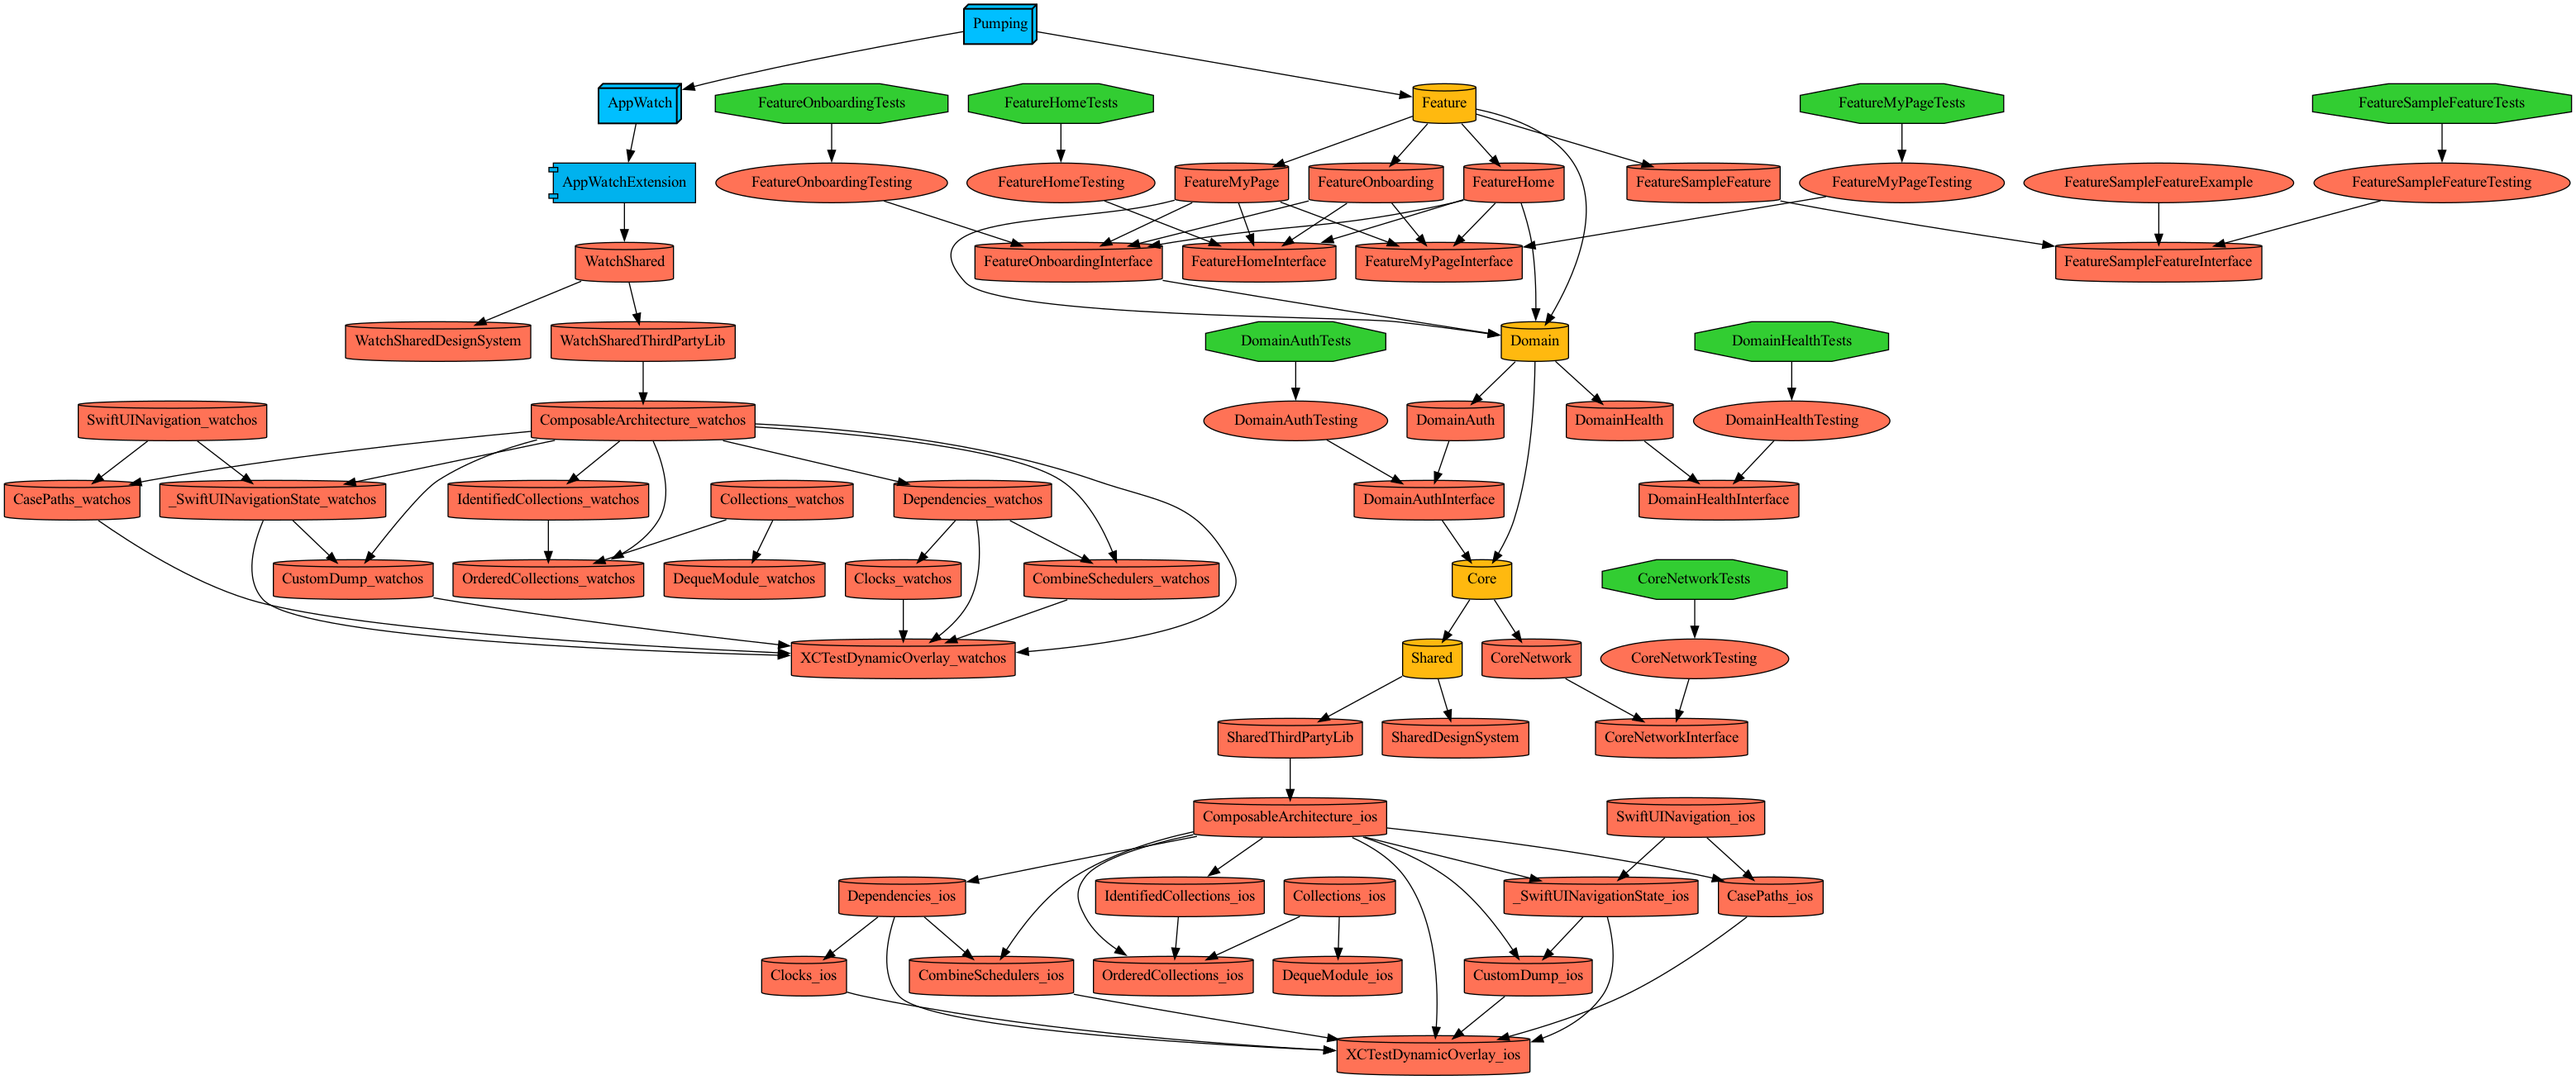
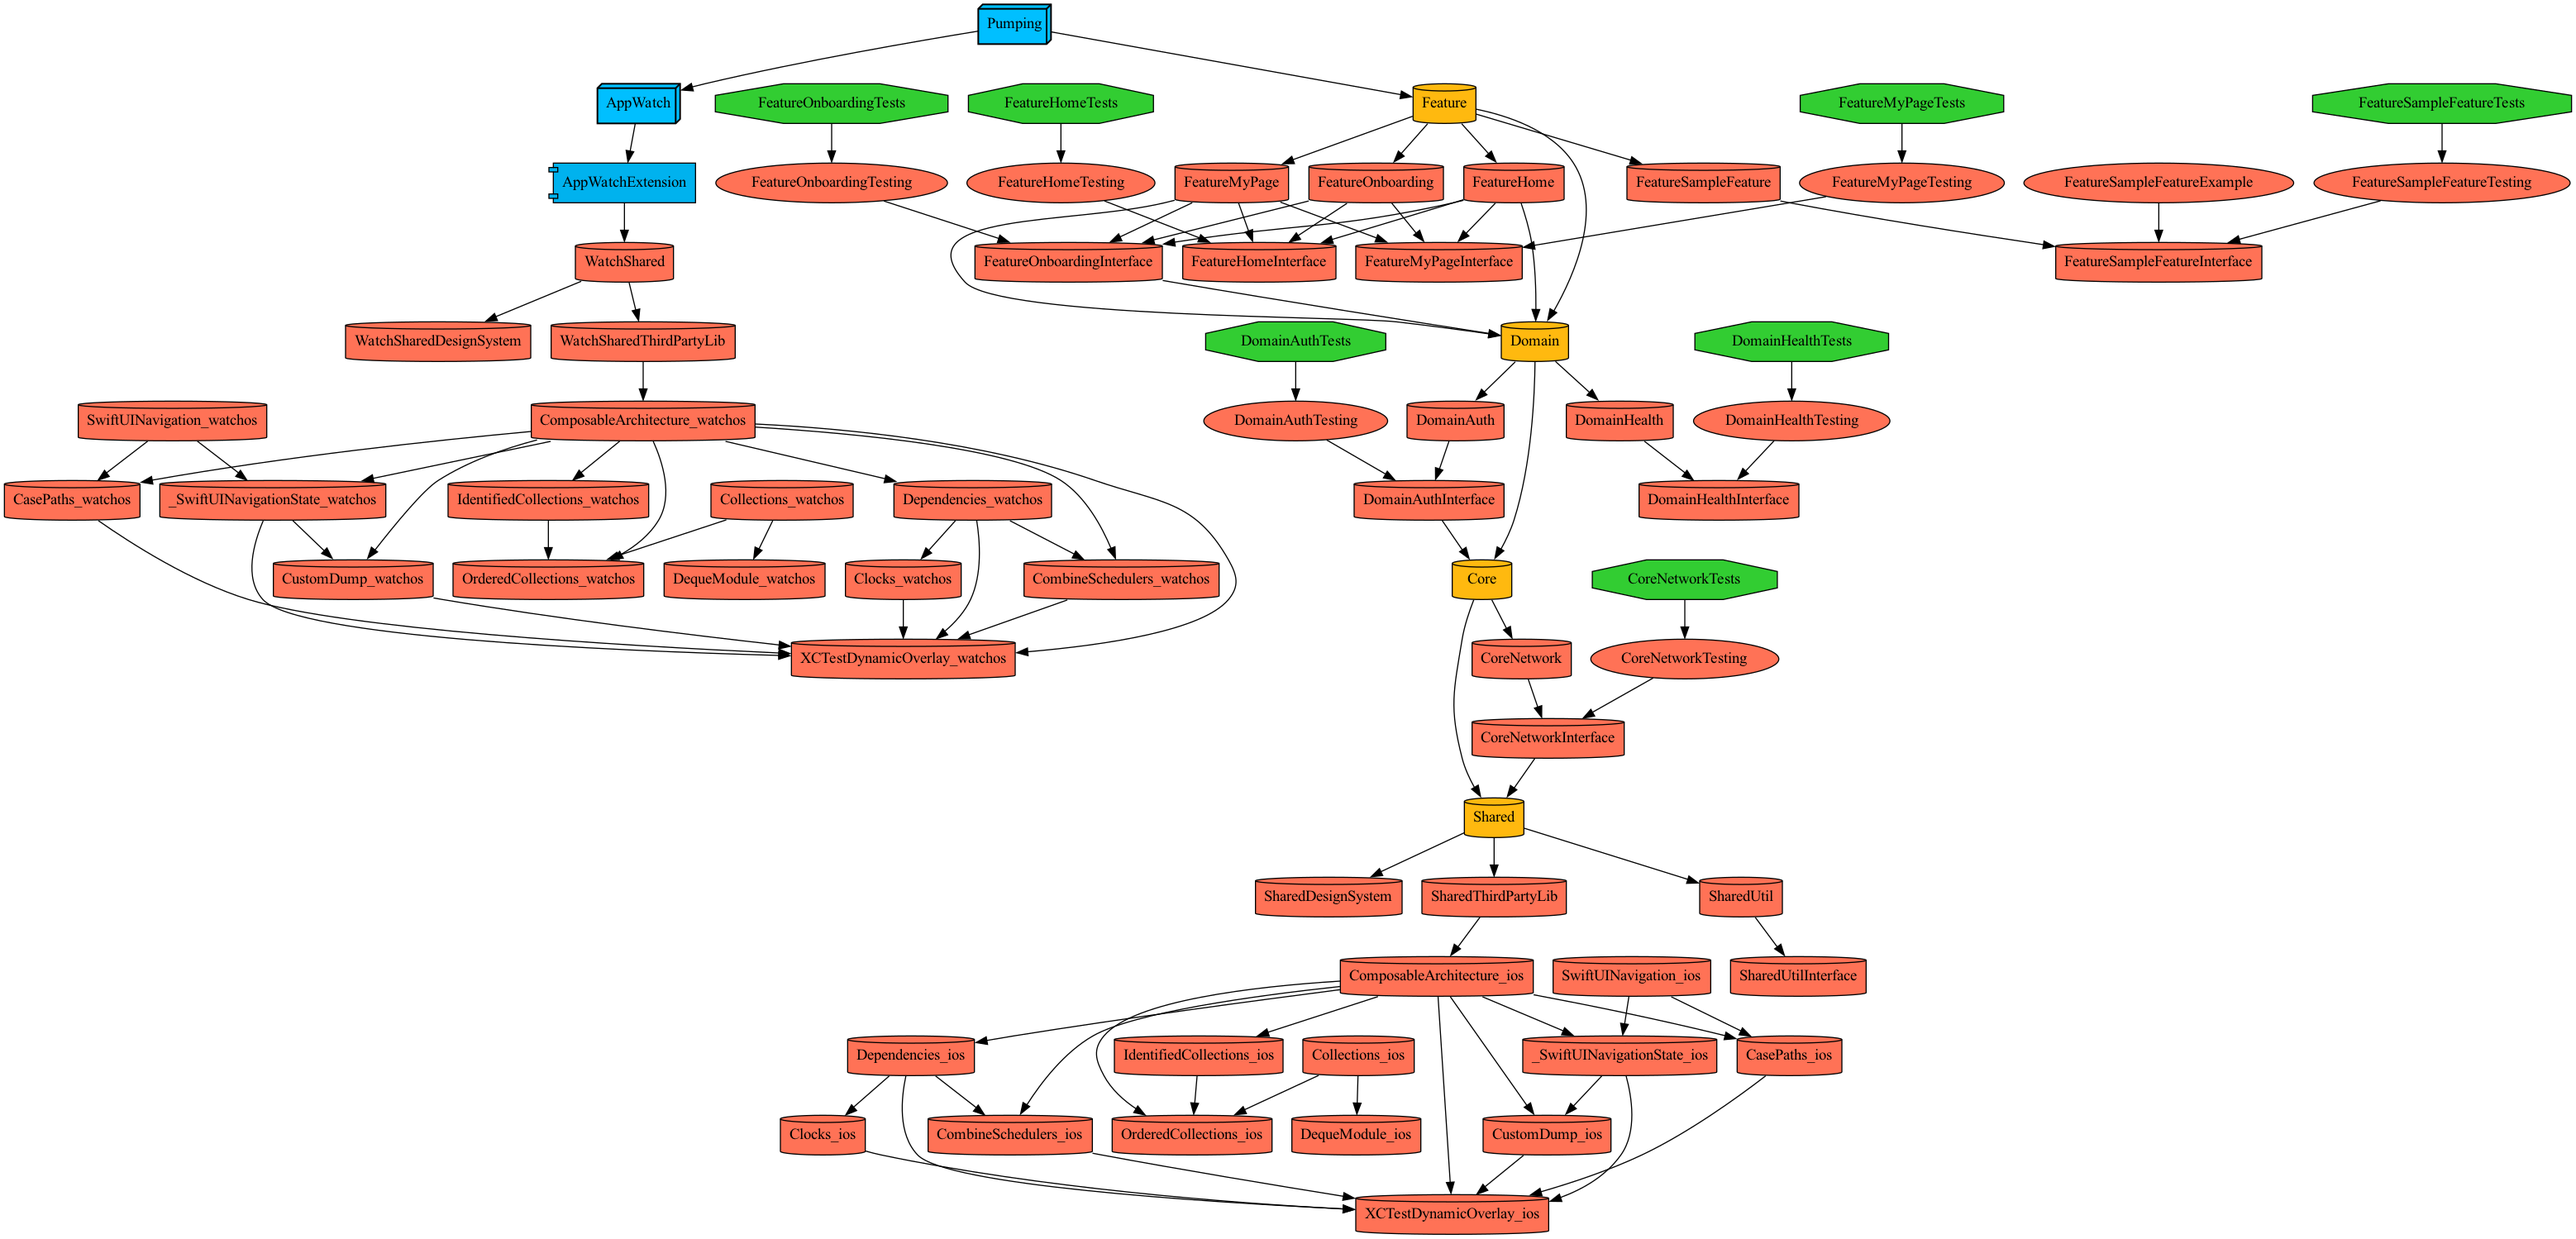
feat: Shared - Util Module 추가, PR 리뷰 수정, Shared에 Interface 추가

Changed region(s): [[0.0, 0.0, 1.0, 1.0]]

diff --git a/Projects/Core/Network/Sources/EndPoint/Requestable.swift b/Projects/Core/Network/Sources/EndPoint/Requestable.swift
@@ -7,18 +7,15 @@
 
 import Foundation
 import CoreNetworkInterface
+import SharedUtil
 
 extension Requestable {
-    private func makeURLComponents() throws -> URLComponents {
+    private func makeURLComponents() throws -> URLComponents? {
         guard let baseURL = Bundle.main.infoDictionary?["BASE_URL"] as? String else {
             throw NetworkError.urlRequestError(.makeURLError)
         }
         
-        guard let urlComponents = URLComponents(string: baseURL + path) else {
-            throw NetworkError.urlRequestError(.urlComponentError)
-        }
-        
-        return urlComponents
+        return URLComponents(string: baseURL + path)
     }
     
     private func getQueryParameters() throws -> [URLQueryItem]? {
@@ -52,7 +49,7 @@ extension Requestable {
         guard let bodyDictionary = try? bodyParameters.toDictionary() else {
             throw NetworkError.urlRequestError(.bodyEncodingError)
         }
-                
+        
         guard let encodedBody = try? JSONSerialization.data(withJSONObject: bodyDictionary) else {
             throw NetworkError.urlRequestError(.bodyEncodingError)
         }
@@ -62,7 +59,9 @@ extension Requestable {
     
     public func makeURLRequest() throws -> URLRequest {
         
-        var urlComponent = try makeURLComponents()
+        guard var urlComponent = try makeURLComponents() else {
+            throw NetworkError.urlRequestError(.urlComponentError)
+        }
         
         if let queryItems = try getQueryParameters() {
             urlComponent.queryItems = queryItems
@@ -85,14 +84,5 @@ extension Requestable {
         urlRequest.httpMethod = httpMethod.rawValue
         
         return urlRequest
-    }
-}
-
-// Shared의 Util 모듈로 이동?
-extension Encodable {
-    func toDictionary() throws -> [String : Any]? {
-        let data = try JSONEncoder().encode(self)
-        let jsonObject = try JSONSerialization.jsonObject(with: data)
-        return jsonObject as? [String : Any]
     }
 }

diff --git a/Tuist/ProjectDescriptionHelpers/Target+Templates.swift b/Tuist/ProjectDescriptionHelpers/Target+Templates.swift
@@ -303,7 +303,18 @@ public extension Target {
         case .ThirdPartyLib:
             newFactory.sources = nil
             newFactory.product = .staticFramework
+        case .Util:
+            newFactory.product = .staticFramework
         }
+        
+        return make(factory: newFactory)
+    }
+    
+    static func shared(interface module: ModulePath.Shared, factory: TargetFactory) -> Self {
+        var newFactory = factory
+        newFactory.name = ModulePath.Shared.name + module.rawValue + "Interface"
+        newFactory.product = .staticFramework
+        newFactory.sources = .interface
         
         return make(factory: newFactory)
     }

diff --git a/Projects/Core/Network/Sources/NetworkProvider.swift b/Projects/Core/Network/Sources/NetworkProvider.swift
@@ -7,6 +7,7 @@
 
 import Foundation
 import CoreNetworkInterface
+import SharedUtil
 
 final class NetworkProvider : NetworkProviderInterface {
     static let shared = NetworkProvider()
@@ -19,6 +20,10 @@ final class NetworkProvider : NetworkProviderInterface {
             
             guard let response = response as? HTTPURLResponse else {
                 throw NetworkError.noResponseError
+            }
+            
+            if let emptyResponse = try JSONDecoder().decode(EmptyData.self, from: data) as? T, data.isEmpty {
+                return emptyResponse
             }
             
             switch response.statusCode {

diff --git a/Projects/Shared/Util/Project.swift b/Projects/Shared/Util/Project.swift
@@ -1,0 +1,21 @@
+import ProjectDescription
+import ProjectDescriptionHelpers
+import DependencyPlugin
+
+let project = Project.makeModule(
+    name: ModulePath.Shared.name+ModulePath.Shared.Util.rawValue,
+    targets: [    
+        .shared(
+            interface: .Util,
+            factory: .init()
+        ),
+        .shared(
+            implements: .Util,
+            factory: .init(
+                dependencies: [
+                    .shared(interface: .Util)
+                ]
+            )
+        ),
+    ]
+)

diff --git a/Plugins/DependencyPlugin/ProjectDescriptionHelpers/TargetDependency+Modules.swift b/Plugins/DependencyPlugin/ProjectDescriptionHelpers/TargetDependency+Modules.swift
@@ -103,6 +103,10 @@ public extension TargetDependency {
     static func shared(implements module: ModulePath.Shared) -> Self {
         return .project(target: ModulePath.Shared.name + module.rawValue, path: .shared(implementation: module))
     }
+    
+    static func shared(interface module: ModulePath.Shared) -> Self {
+        return .project(target: ModulePath.Shared.name + module.rawValue + "Interface", path: .shared(implementation: module))
+    }
 }
 
 // MARK: TargetDependency + WatchShared

diff --git a/Projects/Shared/Project.swift b/Projects/Shared/Project.swift
@@ -14,7 +14,8 @@ let targets: [Target] = [
         factory: .init(
             dependencies: [
                 .shared(implements: .DesignSystem),
-                .shared(implements: .ThirdPartyLib)
+                .shared(implements: .ThirdPartyLib),
+                .shared(implements: .Util)
             ]
         )
     )

diff --git a/Projects/Shared/Util/Sources/Source.swift b/Projects/Shared/Util/Sources/Source.swift
@@ -1,0 +1,10 @@
+import Foundation
+import SharedUtilInterface
+
+extension Encodable  {
+    public func toDictionary() throws -> [String : Any]? {
+        let data = try JSONEncoder().encode(self)
+        let jsonObject = try JSONSerialization.jsonObject(with: data)
+        return jsonObject as? [String : Any]
+    }
+}

diff --git a/Projects/Core/Network/Project.swift b/Projects/Core/Network/Project.swift
@@ -12,7 +12,11 @@ import DependencyPlugin
 let targets: [Target] = [
     .core(
         interface: .Network,
-        factory: .init()
+        factory: .init(
+            dependencies: [
+                .shared
+            ]
+        )
     ),
     .core(
         implements: .Network,

diff --git a/Plugins/DependencyPlugin/ProjectDescriptionHelpers/Modules.swift b/Plugins/DependencyPlugin/ProjectDescriptionHelpers/Modules.swift
@@ -66,6 +66,7 @@ public extension ModulePath {
 
 public extension ModulePath {
     enum Shared: String, CaseIterable {
+        case Util
         case DesignSystem
         case ThirdPartyLib
         

diff --git a/Projects/Core/Network/Interface/Sources/Endpoint/ResponsableInterface.swift b/Projects/Core/Network/Interface/Sources/Endpoint/ResponsableInterface.swift
@@ -7,6 +7,9 @@
 
 import Foundation
 
+public struct EmptyData : Decodable { }
+
+
 public protocol Responsable {
-  associatedtype Response
+    associatedtype Response
 }

diff --git a/Projects/Shared/Util/Interface/Sources/UtilInterface.swift b/Projects/Shared/Util/Interface/Sources/UtilInterface.swift
@@ -1,0 +1,2 @@
+import Foundation
+
